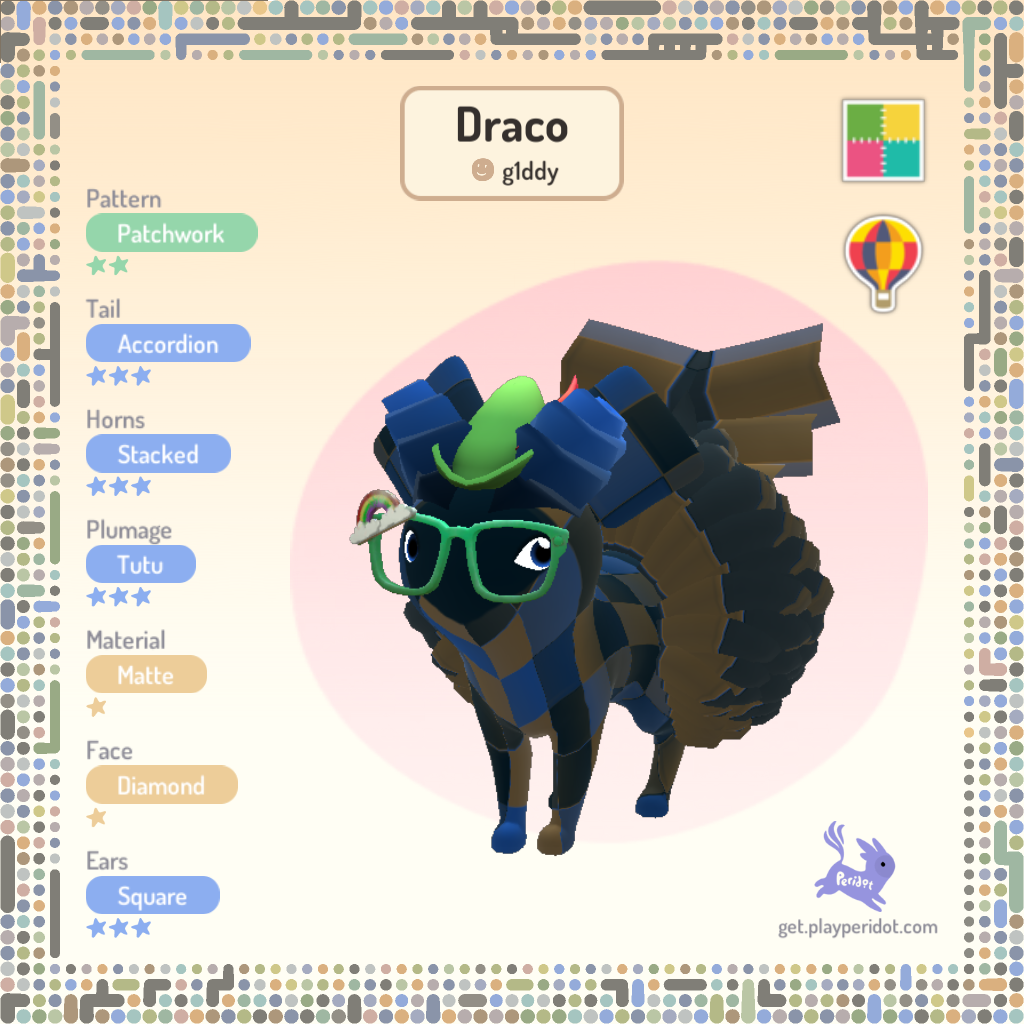
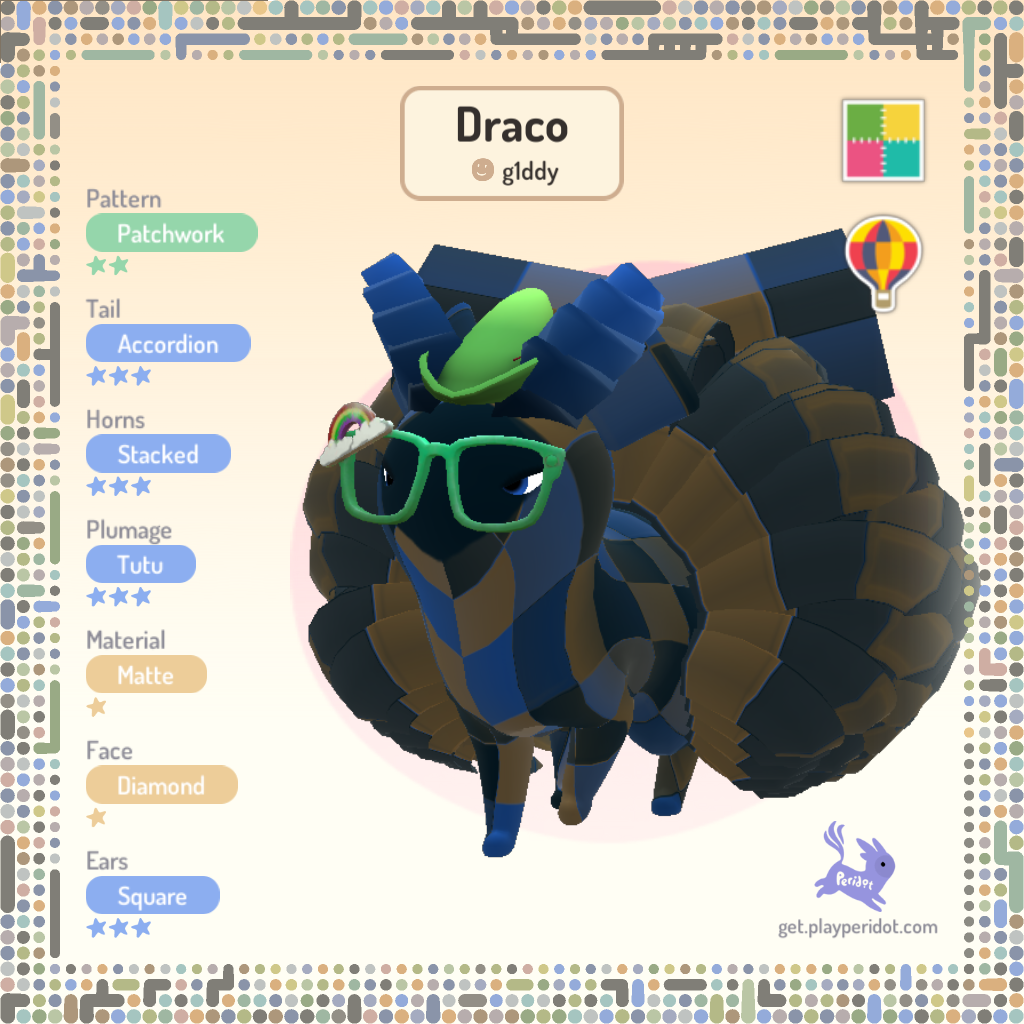
update growth adult

Changed region(s): [[0.2812, 0.2188, 0.9688, 0.8438]]

diff --git a/Peridot-FamilyTree.md b/Peridot-FamilyTree.md
@@ -9,12 +9,14 @@ alpha-1 --> bravo-2("<img src='./assets/Peridots/bravo-2.jpg'> <br /> Bravo")
 beta-2 --> canary-3("<img src='./assets/Peridots/canary-3.jpg'> <br /> Canary (Patchwork)")
 beta-2 --> chevron-3("<img src='./assets/Peridots/chevron-3.jpg'> <br /> Chevron (Ram)")
 bravo-2 --> charlie-3("<img src='./assets/Peridots/charlie-3.jpg'> <br /> Charlie")
+canary-3 --> draco-4("<img src='./assets/Peridots/draco-4.jpg'> <br /> Draco (Balloon,Patchwork)")
 charlie-3 --> delta-4("<img src='./assets/Peridots/delta-4.jpg'> <br /> Delta")
 charlie-3 --> dolphin-4("<img src='./assets/Peridots/dolphin-4.jpg'> <br /> Dolphin")
 chevron-3 --> damascus-4("<img src='./assets/Peridots/damascus-4.jpg'> <br /> Damascus (Kintsugi,Ram)")
 chevron-3 --> dorado-4("<img src='./assets/Peridots/dorado-4.jpg'> <br /> Dorado (24Karat,Ram)")
 chevron-3 --> duranium-4("<img src='./assets/Peridots/duranium-4.jpg'> <br /> Duranium (Patina,Ram)")
 chevron-3 --> echelon-4("<img src='./assets/Peridots/echelon-4.jpg'> <br /> Echelon (Bismuth,Ram)")
+damascus-4 --> enrichment-5("<img src='./assets/Peridots/enrichment-5.jpg'> <br /> Enrichment (Kintsugi,Royalty)")
 delta-4 --> echo-5("<img src='./assets/Peridots/echo-5.jpg'> <br /> Echo (Static)")
 delta-4 --> jammie-5("<img src='./assets/Peridots/jammie-5.jpg'> <br /> Jammie")
 dorado-4 --> entropy-5("<img src='./assets/Peridots/entropy-5.jpg'> <br /> Entropy (Clownfish,Ram)")
@@ -32,6 +34,7 @@ maximus-7 --> noise-8("<img src='./assets/Peridots/noise-8.jpg'> <br /> Noise (S
 icarus-8 --> jewelfish-9("<img src='./assets/Peridots/jewelfish-9.jpg'> <br /> Jewelfish (Clownfish,Rabbit)")
 noise-8 --> orion-9("<img src='./assets/Peridots/orion-9.jpg'> <br /> Orion (Aurora)")
 jewelfish-9 --> kaleidoscope-10("<img src='./assets/Peridots/kaleidoscope-10.jpg'> <br /> Kaleidoscope (Anemone,Clownfish,Rabbit)")
+jewelfish-9 --> kandle-10("<img src='./assets/Peridots/kandle-10.jpg'> <br /> Kandle")
 jewelfish-9 --> krypto-10("<img src='./assets/Peridots/krypto-10.jpg'> <br /> Krypto (Dewdrop,Rabbit)")
 jewelfish-9 --> queezy-10("<img src='./assets/Peridots/queezy-10.jpg'> <br /> Queezy (Peacock)")
 orion-9 --> phenotype-10("<img src='./assets/Peridots/phenotype-10.jpg'> <br /> Phenotype (Sunset)")
